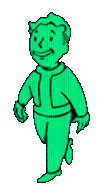
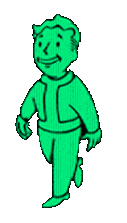
Adjust IMG_ANIM widget position for improved alignment

diff --git a/watchface/index.js b/watchface/index.js
@@ -100,7 +100,7 @@ WatchFace({
     // Native widget = the firmware cycles the frames; no manual timer (robust on Balance 2,
     // where the old getScreenType-gated timer froze — see docs/ZEPPOS-FINDINGS.md #13).
     hmUI.createWidget(hmUI.widget.IMG_ANIM, {
-      x: 186, y: 130,
+      x: 185, y: 120,
       anim_path: '', anim_prefix: 'pipboy', anim_ext: 'png',
       anim_fps: 8, anim_size: 8, anim_repeat: true, repeat_count: 255,
       anim_status: hmUI.anim_status.START,
